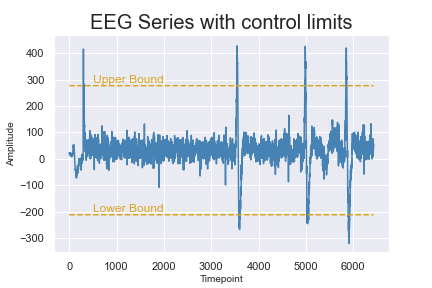
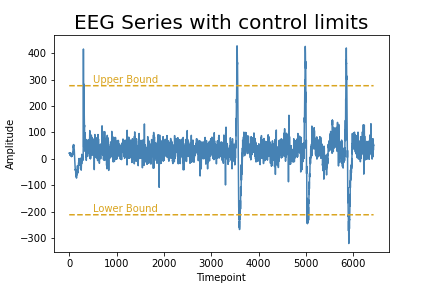
final

diff --git a/ejerciciofinal-FranciscoSegui.py b/ejerciciofinal-FranciscoSegui.py
@@ -106,7 +106,9 @@ print('Location of Blinks');print(blinklocations)
 import seaborn as sns
 sns.set(style="darkgrid")
 sns.lineplot(x="timestamp", y="eeg", hue="attention", data=signals, palette="Reds")
+plt.savefig('attention.png')
 plt.show()
 
 sns.lineplot(x="timestamp", y="eeg", hue="meditation", data=signals, palette="Blues")
+plt.savefig('meditation.png')
 plt.show()
